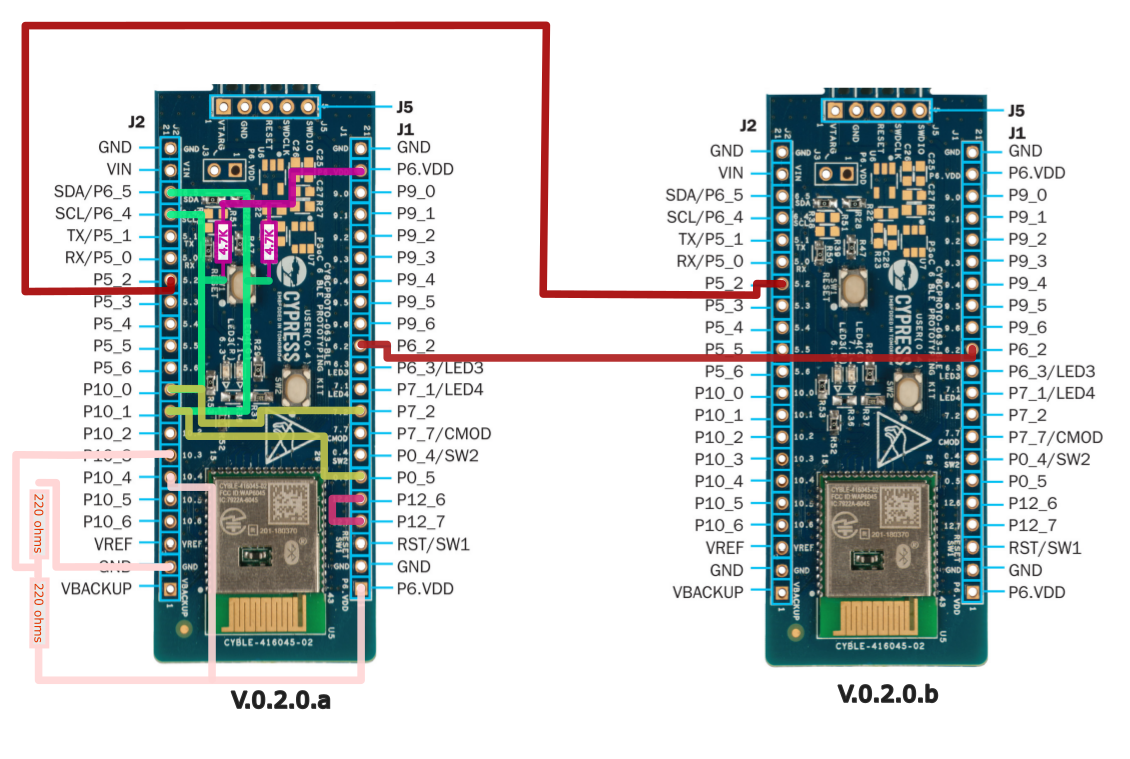
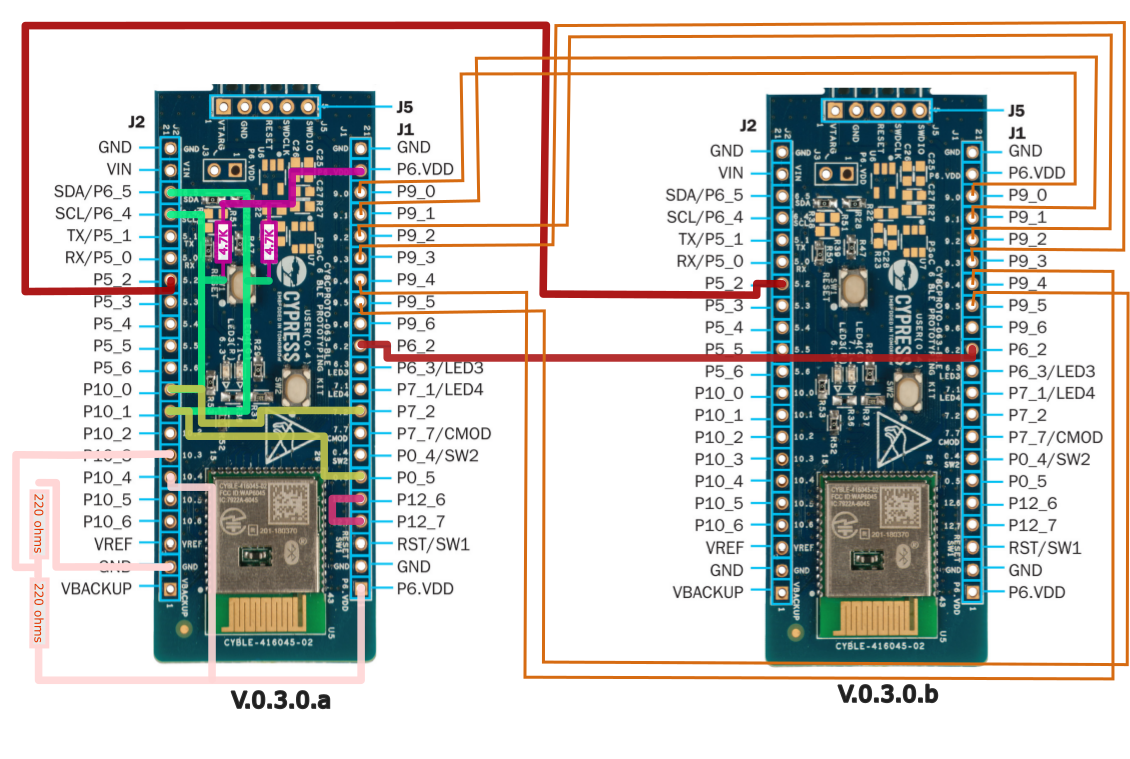
tests/psoc6: Enabled test setup for i2s.

Changed region(s): [[0.3097, 0.0303, 1.0, 0.9394]]

diff --git a/tests/psoc6/hw_ext/multi_blocking/i2s_rx.py b/tests/psoc6/hw_ext/multi_blocking/i2s_rx.py
@@ -1,0 +1,188 @@
+import os
+from machine import I2S, Pin
+import binascii
+import time
+import array
+import struct
+
+# Allocate pin based on board
+machine = os.uname().machine
+if "CY8CPROTO-062-4343W" in machine:
+    sck_rx_pin = "P5_4"
+    ws_rx_pin = "P5_5"
+    sd_rx_pin = "P5_6"
+    rx_ready_signal_pin_name = "P13_4"
+elif "CY8CPROTO-063-BLE" in machine:
+    # These would be the right pins for this test, but unfortunately
+    # the P5_1 is allocated for the UART serial comm terminal communication.
+    # Thus this tests is not currently possible for this board.
+    # sck_rx_pin = "P5_4"
+    # ws_rx_pin = "P5_5"
+    # sd_rx_pin = "P5_6"
+    print("SKIP")
+    raise SystemExit
+
+rx_ready_signal_pin = None
+
+
+def rx_ready_signal_init():
+    global rx_ready_signal_pin
+    rx_ready_signal_pin = Pin(rx_ready_signal_pin_name, Pin.OUT, value=0)
+    rx_ready_signal_pin.low()
+
+
+def rx_ready_signal_deinit():
+    global rx_ready_signal_pin
+    rx_ready_signal_pin.deinit()
+
+
+def notify_readiness_to_tx():
+    global rx_ready_signal_pin
+    rx_ready_signal_pin.high()
+    time.sleep(0.5)
+    rx_ready_signal_pin.low()
+
+
+def make_expected_sequence():
+    len = 0xFF
+    expected_frame = bytearray(len)
+    for i in range(len):
+        expected_frame[i] = i
+
+    return expected_frame
+
+
+def find_sublist_in_list(full_list, sublist):
+    for i in range(len(full_list) - len(sublist) - 1):
+        if full_list[i : i + len(sublist)] == sublist:
+            return True
+
+    return False
+
+
+def print_i2s_format(raw_buf, bits):
+    samples_buf = []
+    if bits == 16:
+        bytes_per_sample = 2
+        format = "<H"
+    elif bits == 32:
+        bytes_per_sample = 4
+        format = "<I"
+
+    num_bytes = len(raw_buf)
+    i = 0
+    while num_bytes > 0:
+        sample = struct.unpack(format, raw_buf[i * bytes_per_sample : (i + 1) * bytes_per_sample])[
+            0
+        ]
+        if i % 2 == 0:
+            sample_l = sample
+        else:
+            sample_r = sample
+            # sample_l is available from previous
+            sample_tuple = (hex(sample_l), hex(sample_r))
+            samples_buf.append(sample_tuple)
+
+        num_bytes -= bytes_per_sample
+        i += 1
+
+    print("(Left channel, Right channel)")
+    for s_tuple in samples_buf:
+        print(s_tuple)
+
+
+###############################################################################
+print("1. tx-rx data for all formats, rates and bit resolution")
+
+test_rates = [8000, 16000, 32000, 48000, 22050, 44100]
+test_formats = [I2S.MONO, I2S.STEREO]
+test_bits = [16, 32]
+test_bits_resolution = [8, 12, 16, 20, 32]
+
+rx_ready_signal_init()
+exp_seq = make_expected_sequence()
+
+for _format in test_formats:
+    for _bits in test_bits:
+        for _rate in test_rates:
+            audio_in = I2S(
+                0,
+                sck=sck_rx_pin,
+                ws=ws_rx_pin,
+                sd=sd_rx_pin,
+                mode=I2S.RX,
+                bits=_bits,
+                format=_format,
+                rate=_rate,
+                ibuf=20000,
+            )
+
+            # Try 3 times to overcome synch mismatches
+            for i in range(3):
+                # Read i2s data
+                rx_buf = bytearray([0] * 2560)
+                num_read = audio_in.readinto(rx_buf)
+
+                # validate data
+                is_seq_received = find_sublist_in_list(rx_buf, exp_seq)
+                if is_seq_received:
+                    break
+
+            audio_in.deinit()
+            print(
+                f"data received for format = {_format}, bits = {_bits}, rate = {_rate} : {is_seq_received}"
+            )
+
+            notify_readiness_to_tx()
+            # print_i2s_format(rx_buf, 16)
+
+            # Give some time to the i2s_tx to setup
+            time.sleep(2)
+
+rx_ready_signal_deinit()
+
+###############################################################################
+print("\n2. irq non-blocking read implementation ")
+
+rx_done = False
+
+
+def rx_complete_irq(obj):
+    global rx_done
+    rx_done = True
+
+
+audio_in = I2S(
+    0,
+    sck=sck_rx_pin,
+    ws=ws_rx_pin,
+    sd=sd_rx_pin,
+    mode=I2S.RX,
+    bits=16,
+    format=I2S.MONO,
+    rate=8000,
+    ibuf=20000,
+)
+
+rx_buf = bytearray([0] * 50)
+audio_in.irq(rx_complete_irq)
+num_read = audio_in.readinto(rx_buf)
+
+while not rx_done:
+    pass
+
+# if we get pass this rx_done flag has been
+# modified by the interrupt
+
+print("rx blocking done")
+audio_in.deinit()
+
+
+###############################################################################
+print("\n3. shift ")
+
+buf = bytearray(b"\xFF\xFF\xFF\xFF")
+I2S.shift(buf=buf, bits=16, shift=3)
+print(binascii.hexlify(buf))
+I2S.shift(buf=buf, bits=16, shift=-3)
+print(binascii.hexlify(buf))

diff --git a/tests/psoc6/hw_ext/multi_blocking/i2s_tx.py b/tests/psoc6/hw_ext/multi_blocking/i2s_tx.py
@@ -1,0 +1,143 @@
+import os
+from machine import I2S, Pin
+import binascii
+import time
+import array
+import struct
+
+# Allocate pin based on board
+machine = os.uname().machine
+if "CY8CPROTO-062-4343W" in machine:
+    sck_tx_pin = "P13_1"
+    ws_tx_pin = "P13_2"
+    sd_tx_pin = "P13_3"
+    wait_signal_pin_name = "P0_4"
+    # while extmod/refactoring
+    # print("SKIP")
+    # raise SystemExit
+elif "CY8CPROTO-063-BLE" in machine:
+    # This would be the right pins for this test, but unfortunately
+    # the P5_1 is allocated for the UART serial comm terminal communication.
+    # So this tests is not currently possible for this board.
+    # sck_tx_pin = "P5_1"
+    # ws_tx_pin = "P5_2"
+    # sd_tx_pin = "P5_3"
+    print("SKIP")
+    raise SystemExit
+
+signal_received = False
+rising_edge_count = 0
+wait_signal_pin = None
+
+
+def signal_irq(arg):
+    global signal_received
+    global rising_edge_count
+    rising_edge_count += 1
+    signal_received = True
+
+
+def wait_signal_init():
+    global wait_signal_pin
+    wait_signal_pin = Pin(wait_signal_pin_name, Pin.IN)
+    wait_signal_pin.irq(handler=signal_irq, trigger=Pin.IRQ_RISING)
+
+
+def wait_signal_deinit():
+    global wait_signal_pin
+    wait_signal_pin.deinit()
+
+
+def is_rx_done():
+    # The second interrupt notifies rx completion
+    global signal_received
+
+    if signal_received:
+        # Clear flag
+        signal_received = False
+        return True
+    else:
+        return False
+
+
+def make_i2s_tx_frame_detect_pattern():
+    max_value = 0x100
+    reps = 10
+    buf = bytearray([0] * (max_value) * reps)
+    for i in range(reps):
+        for j in range(max_value):
+            buf[i * max_value + j] = j
+
+    # for i in range(reps):
+    #     print(binascii.hexlify(buf[i * max_value : (i + 1) * max_value]))
+
+    return buf
+
+
+def print_i2s_format(raw_buf, bits):
+    samples_buf = []
+    if bits == 16:
+        bytes_per_sample = 2
+        format = "<H"
+    elif bits == 32:
+        bytes_per_sample = 4
+        format = "<I"
+
+    num_bytes = len(raw_buf)
+    i = 0
+    while num_bytes > 0:
+        sample = struct.unpack(format, raw_buf[i * bytes_per_sample : (i + 1) * bytes_per_sample])[
+            0
+        ]
+        if i % 2 == 0:
+            sample_l = sample
+        else:
+            sample_r = sample
+            # sample_l is available from previous
+            sample_tuple = (hex(sample_l), hex(sample_r))
+            samples_buf.append(sample_tuple)
+
+        num_bytes -= bytes_per_sample
+        i += 1
+
+    print("(Left channel, Right channel)")
+    for s_tuple in samples_buf:
+        print(s_tuple)
+
+
+###############################################################################
+test_rates = [8000, 16000, 32000, 48000, 22050, 44100]
+test_formats = [I2S.MONO, I2S.STEREO]
+test_bits = [16, 32]
+test_bits_resolution = [8, 12, 16, 20, 32]
+
+
+buf = make_i2s_tx_frame_detect_pattern()
+wait_signal_init()
+
+for _format in test_formats:
+    for _bits in test_bits:
+        for _rate in test_rates:
+            audio_out = I2S(
+                0,
+                sck=sck_tx_pin,
+                ws=ws_tx_pin,
+                sd=sd_tx_pin,
+                mode=I2S.TX,
+                bits=_bits,
+                format=_format,
+                rate=_rate,
+                ibuf=20000,
+            )
+
+            rx_done = False
+
+            while not rx_done:
+                audio_out.write(buf)
+                time.sleep(1)
+                rx_done = is_rx_done()
+
+            print(f"irq : {rising_edge_count}")
+            audio_out.deinit()
+
+wait_signal_deinit()